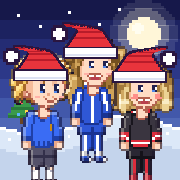
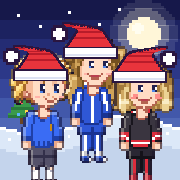
Kinder faces: Beau and Winnie smile, Luke's smile shows, and his hair's a curly bowl
- Beau and Winnie: a big happy smile, corners right up, in place of the
  gap-toothed grin that read as gritted teeth; mid-air, an open laugh
- Luke: his smile shows under the moustache (it was lost at game size)
- Luke's hair: a few curls down each side, over the top of his ear and at
  his temple, a touch of curly bowl (his cameo shares it)
- The home-screen icon redrawn with the new smiles
- tools/qa/faces.js: everyone's faces in every expression, close up

Changed region(s): [[0.4722, 0.3889, 0.5833, 0.4444], [0.75, 0.5278, 0.8611, 0.5833]]

diff --git a/js/art.js b/js/art.js
@@ -862,8 +862,10 @@
      Ross." The round mop and the stubble were that.) */
   /* His hair, shared with his cameo in family.js (A.lukeHair): the volume
      on top, tumbling forward over his forehead in a loose fringe, and the
-     back and sides short and close to his head — so it stands taller than
-     it's wide, never wider than his head. Placed on the player's head; ox,
+     sides a little fuller — a curly bowl, curls down over the top of his
+     ear and at his temple (Luke, 29 Oct: "a tiny bit more of a curly
+     bowlcut these days — not much"), the back close behind them. It stands
+     taller than it's wide, and only just wider than his head. Placed on the player's head; ox,
      oy move it onto another (the cameo's is 2.5 right and 4 lower).
      back: the short back and sides, drawn behind his ear; top: the curls,
      drawn over his face; at(x, y): whether a point is under the curls. */
@@ -871,11 +873,14 @@
     var T = function (c) { return [c[0] + ox, c[1] + oy, c[2]]; };
     // tight curls, packed in rows: piled high over the crown (its outline
     // bumpy where they meet the sky), then a fringe of them hanging forward
-    // over his forehead; none down the sides, which are cut short
+    // over his forehead, and a few down each side: over the top of his ear,
+    // and one or two at his temple
     var list = [
       [16.6, 3.4, 1.9], [19.8, 1.9, 1.9], [23.2, 1.6, 1.9], [26.6, 2.1, 1.9], [29.4, 3.9, 1.8],
       [14.8, 6.4, 1.8], [17.9, 5.2, 1.8], [21.3, 4.8, 1.8], [24.7, 4.9, 1.8], [28, 5.7, 1.8], [30.2, 6.8, 1.4],
-      [19.6, 8.2, 1.6], [22.9, 8.9, 1.7], [26.1, 8.5, 1.6], [28.9, 8.4, 1.4]
+      [19.6, 8.2, 1.6], [22.9, 8.9, 1.7], [26.1, 8.5, 1.6], [28.9, 8.4, 1.4],
+      [13, 8.6, 1.8], [12.8, 11.4, 1.7], [15.8, 9.3, 1.6], [14.6, 12.4, 1.4],
+      [30.8, 9.5, 1.4], [31.3, 11.5, 1.1]
     ].map(T);
     var fill = ell(22.4 + ox, 5.2 + oy, 7.6, 3.6);
     var top = { c: '3', line: '1',
@@ -949,13 +954,14 @@
         paint(rows, 25, 17, ['t']);
         // the moustache: a full ginger one over his top lip, bushy along
         // its top, its corners turning down just past the corners of his
-        // mouth (no lower — under the mouth is clean); then the smile
+        // mouth (no lower — under the mouth is clean); then the smile, a
+        // happy one with his teeth showing, so it reads under the moustache
         paint(rows, 21, 18, ['.455443.', '34444443']);
         var mouth = {
           wheee: [23, 20, ['qmmq', '.qq.']],
           hurt: [24, 20, ['qmq', '.q.']],
           gasp: [24, 20, ['qmq', '.q.']]
-        }[kind] || [22, 20, ['q....q', '.qqqq.']];
+        }[kind] || [22, 20, ['qwwwwq', '.qqqq.']];
         paint(rows, mouth[0], mouth[1], mouth[2]);
       }
     };
@@ -1044,13 +1050,17 @@
     } };
     return { behind: behind, crown: crown, near: near, far: far, at: function (x, y) { return crown.f(x, y) || near.f(x, y) || far.f(x, y); } };
   };
-  // a big gap-toothed grin (Beau and Winnie, both with a front tooth out)
-  var GAP = ['.qqqqq.', 'qwwqwwq', '.qmmmq.'];
+  /* Beau and Winnie's big happy smile, corners right up, open a little —
+     no teeth (Luke, 29 Oct: the gap-toothed grin they first had read as
+     gritted teeth; everyone should see themselves drawn kindly) — and
+     their laugh of delight in mid-air. */
+  var GRIN = ['q.....q', '.qmmmq.', '..qqq..'];
+  var LAUGH = ['qqqqq', 'qmnmq', '.qqq.'];
 
   /* ---- Beau -----------------------------------------------------------------
      Eight: long, wavy, golden-blond hair parted near the middle, falling
      past his shoulders, lighter at the ends; blue eyes, rosy cheeks and a big
-     gap-toothed grin. His royal-blue tracksuit, zipped to the chin, with a
+     happy smile. His royal-blue tracksuit, zipped to the chin, with a
      white stripe down each arm and leg; white trainers. (No badge.) */
   var BEAU = (function () {
     var H = flowing({ px: 22.8, near: [11.2, 17.6], far: [30.4, 36], len: 31.5, back: 31, wave: 1, ends: true });
@@ -1075,7 +1085,7 @@
           paint(rows, 21, 13, eye); paint(rows, 27, 13, eye);
         }
         paint(rows, 20, 11, ['22']); paint(rows, 27, 11, ['22']);
-        var mouth = { wheee: [22, 18, ['qqqqq', 'qwqwq', 'qmmmq', '.qqq.']], hurt: [24, 19, ['.q.', 'qmq', '.q.']], gasp: [24, 19, ['.q.', 'qmq', '.q.']] }[kind] || [20, 18, GAP];
+        var mouth = { wheee: [22, 18, LAUGH], hurt: [24, 19, ['.q.', 'qmq', '.q.']], gasp: [24, 19, ['.q.', 'qmq', '.q.']] }[kind] || [20, 18, GRIN];
         paint(rows, mouth[0], mouth[1], mouth[2]);
       }
     };
@@ -1085,7 +1095,7 @@
      Five: light-blond hair parted in the middle — no fringe — falling
      past his cheeks to his shoulders and flicking out at the ends (Luke's
      video, 29 Oct: the first try, a bob with a fringe, didn't look like
-     him); very rosy cheeks, blue eyes, a big gap-toothed grin; his black
+     him); very rosy cheeks, blue eyes, a big happy smile; his black
      leather bomber jacket, its collar, cuffs and waistband striped red and
      white, over a white tee; dark trousers; black trainers. His cheer is
      the double thumbs up from his photo. */
@@ -1119,7 +1129,7 @@
           var eye = kind === 'blink' ? SHUT : EYE;
           paint(rows, 21, 13, eye); paint(rows, 27, 13, eye);
         }
-        var mouth = { wheee: [22, 18, ['qqqqq', 'qwqwq', 'qmmmq', '.qqq.']], hurt: [24, 19, ['.q.', 'qmq', '.q.']], gasp: [24, 19, ['.q.', 'qmq', '.q.']] }[kind] || [20, 18, GAP];
+        var mouth = { wheee: [22, 18, LAUGH], hurt: [24, 19, ['.q.', 'qmq', '.q.']], gasp: [24, 19, ['.q.', 'qmq', '.q.']] }[kind] || [20, 18, GRIN];
         paint(rows, mouth[0], mouth[1], mouth[2]);
       }
     };

diff --git a/tools/qa/faces.js b/tools/qa/faces.js
@@ -1,0 +1,38 @@
+/* faces.js — a dev tool for checking everyone's faces: draws each player
+   big, in each expression (standing, blinking, cheering, jumping, hurt)
+   and the grown-ups' tall cameos, and saves the sheet to tools/reel/out/
+   (served by tools/reel/serve.js). Load index.html, inject this script
+   and run FACES.run('name'). */
+(function () {
+  'use strict';
+  window.FACES = {
+    // heads: just the top of each sprite, close up (the faces themselves)
+    run: function (name, z, heads) {
+      z = z || 5;
+      var A = BB.ART, who = ['bonnie', 'beau', 'winnie', 'lucy', 'luke', 'grace', 'ollie'];
+      var cols = [['idle', 'b'], ['blink', 'b'], ['cheer', 'b'], ['jump', 'b'], ['swim', 'b'], ['idle', 's']];
+      var cw = 44, ch = heads ? 24 : 50, c = document.createElement('canvas');
+      c.width = (cols.length + 1) * cw * z; c.height = who.length * ch * z;
+      var g = c.getContext('2d');
+      g.imageSmoothingEnabled = false;
+      g.fillStyle = '#f4ecd8'; g.fillRect(0, 0, c.width, c.height);
+      g.scale(z, z);
+      who.forEach(function (w, r) {
+        var P = A.player(w);
+        var put = function (f, i) {
+          if (!f) return;
+          g.save(); g.beginPath(); g.rect(i * cw, r * ch, cw, ch); g.clip();
+          BB.draw(g, f, i * cw + cw / 2 - f.w / 2, heads ? r * ch + 1 : r * ch + ch - 4 - f.h);
+          g.restore();
+        };
+        cols.forEach(function (k, i) { put(P[k[1]][k[0]], i); });
+        // the grown-ups' tall cameo (the cheering at the flags, the cottage door)
+        var cam = A.family && A.family[w];
+        if (cam && cam.idle) put(cam.idle, cols.length);
+      });
+      return new Promise(function (res) {
+        c.toBlob(function (b) { fetch('/reel/frame?i=' + name, { method: 'POST', body: b }).then(function () { res(c.width + 'x' + c.height); }); });
+      });
+    }
+  };
+})();

diff --git a/CHRISTMAS-BRIEF.md b/CHRISTMAS-BRIEF.md
@@ -195,10 +195,10 @@ Match or beat the original's Half Term! land (levels 46–55 in the original:
 ## Luke's answers (29 Oct)
 
 - **Beau**, 8, he/him: long wavy dark-blond hair past his shoulders,
-  lighter at the ends, blue eyes, rosy cheeks, a gap-toothed grin; a royal
+  lighter at the ends, blue eyes, rosy cheeks, a big happy smile (drawn without the gap tooth: Luke, 29 Oct); a royal
   blue zip tracksuit with white stripes down the arms and legs.
 - **Winnie**, 5, he/him: a blond bob, blue eyes, very rosy cheeks, a
-  gap-toothed grin, double thumbs up; a black bomber jacket with red and
+  a big happy smile, double thumbs up; a black bomber jacket with red and
   white striped cuffs and collar.
 - **Uncle Ollie**, he/him: shoulder-length wavy blond hair, a full blond
   beard, blue eyes, a big smile; a pale grey suit and a white shirt.
